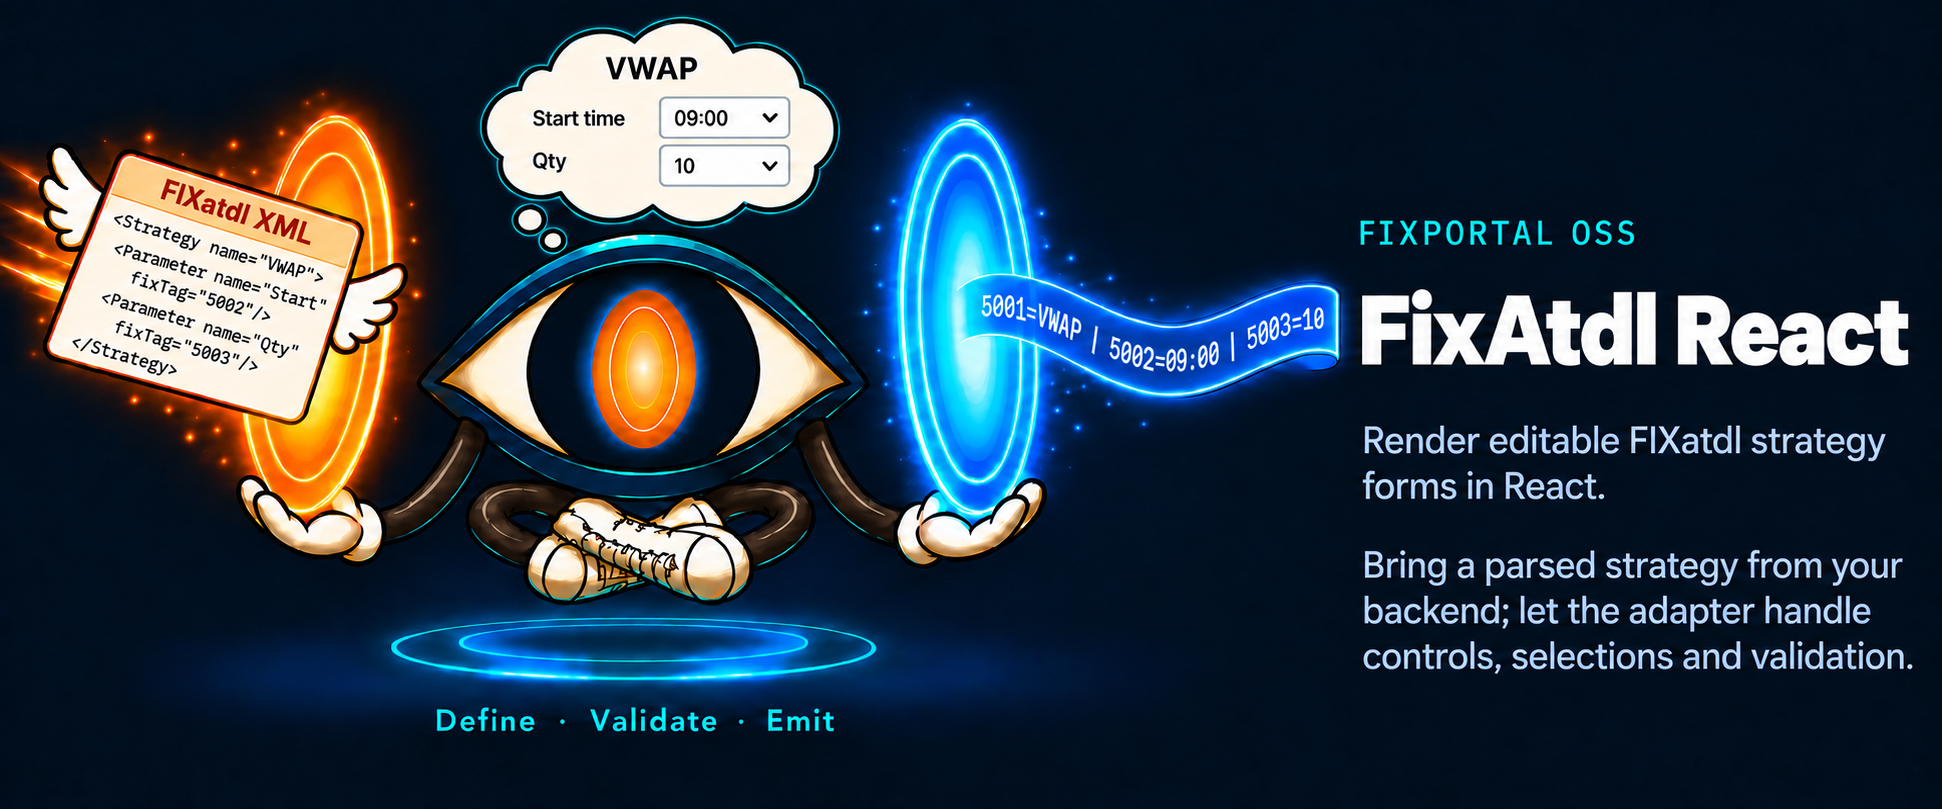
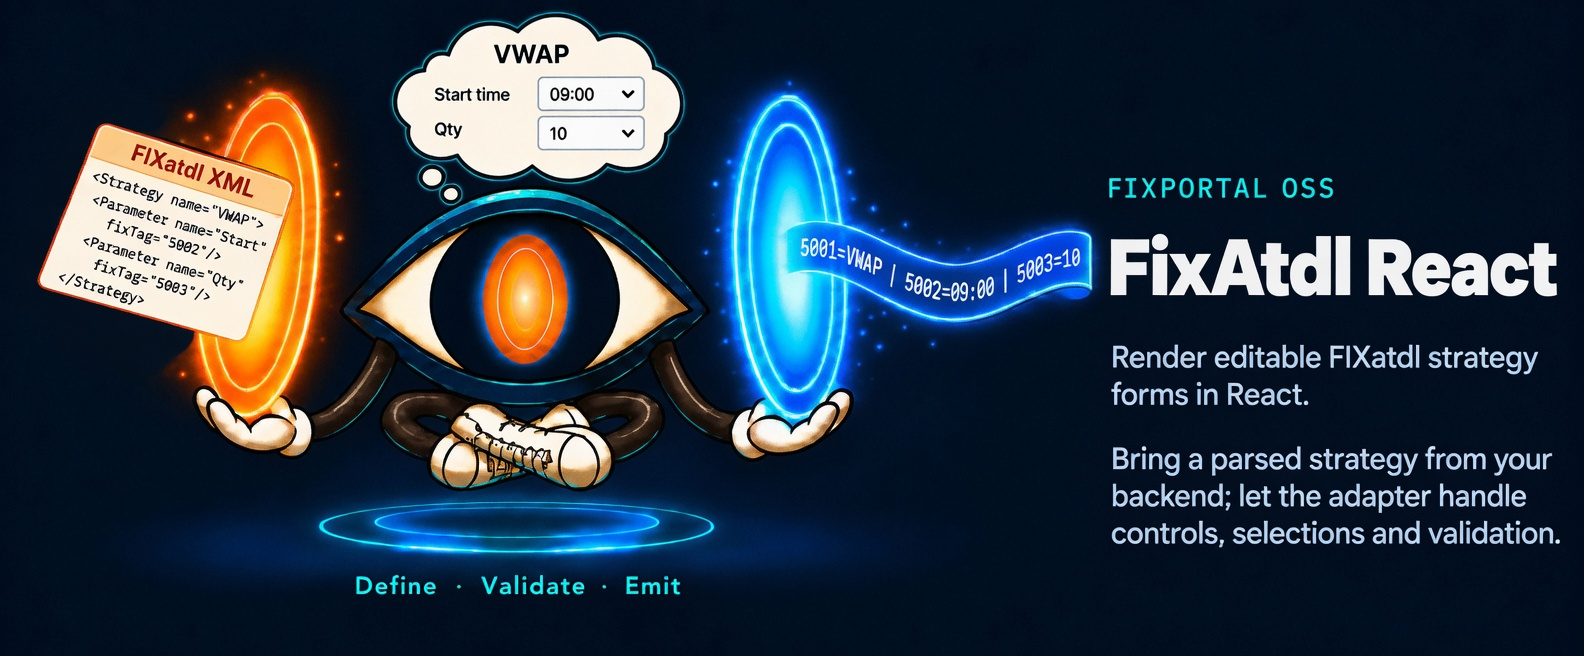
docs: drop wings from the README hero
The XML card on the banner no longer has angel wings. Same
composition, same README URL. Social preview regenerated to match.

diff --git a/CHANGELOG.md b/CHANGELOG.md
@@ -8,6 +8,13 @@ Dates are the release-tag date, in UTC. Entries are consumer-facing: build, CI
 and test-infrastructure commits are omitted unless they change what a consumer
 sees.
 
+## [Unreleased]
+
+### Changed
+
+- README hero and GitHub social preview drop the angel wings from the XML
+  card. The markdown image URL is unchanged.
+
 ## [0.2.1] - 2026-09-17
 
 ### Added
